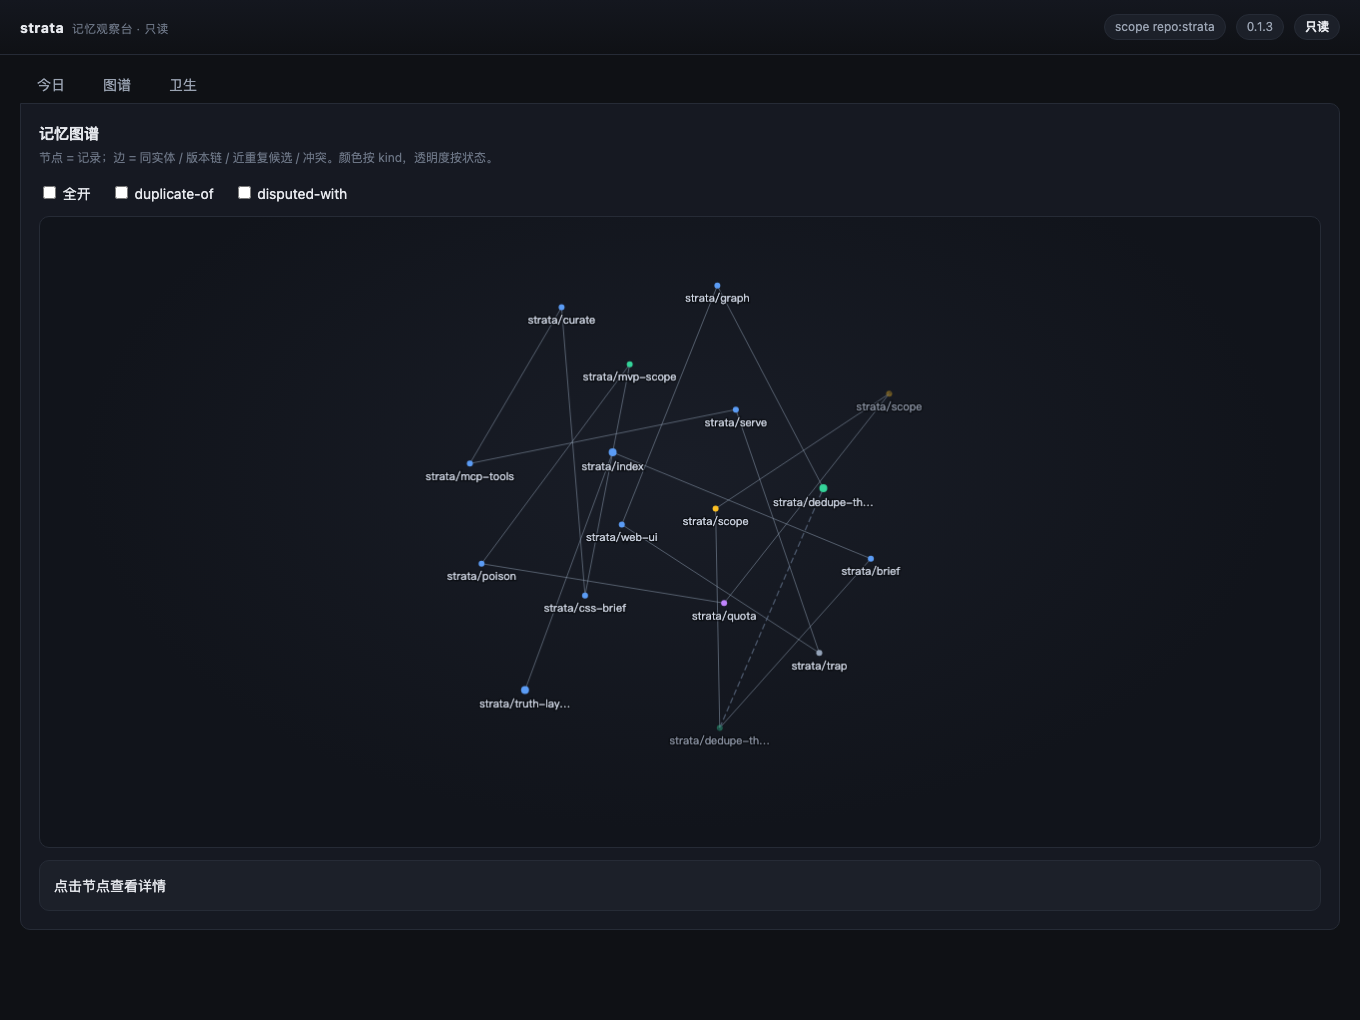
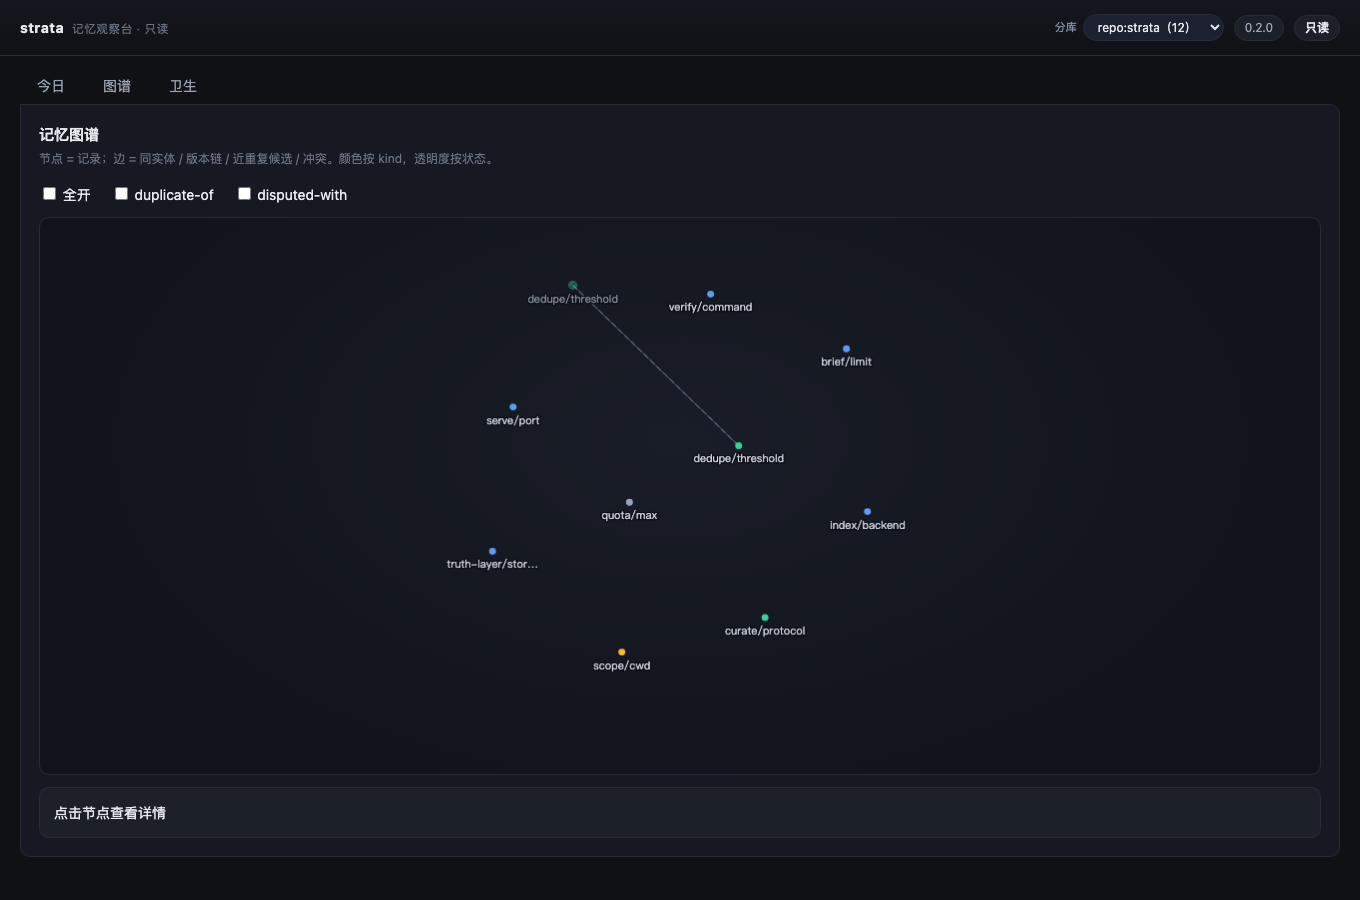
docs(readme): 把「看一眼（只读观察台）」挪到文末 + 刷新三张截图 (#31)
- 观察台是「跑起来之后才关心」的内容，占首屏会把为什么/解决什么/文档/快速开始都推下去
- 三张截图重截（原来是 0.1.3 时代，角标对不上；现在 0.2.0，且卫生页候选卡片能正确显示成员）
- 顺带修掉卫生页候选卡片「簇 #N · 0 条」的字段错配：dedupeScan 给的是 items/size，
  UI 读的是 members → 永远 0；并补一条断言 payload 形状的单测

Refs #29 #30

diff --git a/versions/v0.2/tests/unit/web-handlers.test.js b/versions/v0.2/tests/unit/web-handlers.test.js
@@ -226,3 +226,25 @@ test('readMetrics：只有旧名时能读到；新旧都没有返回 null', asyn
   // 都没有 → null（换一个不存在的日期即可，目录里没有对应文件）
   assert.equal(await readMetrics(memoHome, SCOPE, '2026-01-01'), null);
 });
+
+test('hygiene 候选簇：payload 只有 items 时仍能给出条数与成员（issue #30）', async (t) => {
+  const memoHome = fs.mkdtempSync(path.join(os.tmpdir(), 'memo-wh-cand-'));
+  t.after(() => fs.rmSync(memoHome, { recursive: true, force: true }));
+  const service = await createMemoryService({ memoHome, scope: SCOPE });
+  t.after(() => service.close());
+
+  // 两条中文改写：containment 抓不到但汉字二元组能召回 → 必然成簇
+  await writeRec(service, { subject: 'text', predicate: 'text', text: '去重阈值只用来找候选，最终判决交给正在跑的 Agent' });
+  await writeRec(service, { subject: 'text', predicate: 'text', text: '去重的阈值只负责召回候选，不该由它做判决，判决交给 Agent' });
+
+  const web = await createWebServer({ memoHome, scope: SCOPE, port: 0, includeUi: false, service });
+  t.after(() => new Promise((resolve) => web.server.close(resolve)));
+
+  const r = await (await fetch(`${web.url}api/hygiene`)).json();
+  assert.equal(r.ok, true);
+  assert.ok(Array.isArray(r.candidates) && r.candidates.length >= 1, '应有候选簇');
+  const cl = r.candidates[0];
+  assert.ok(Array.isArray(cl.items) && cl.items.length === 2, '簇里应带 items（UI 渲染依赖它）');
+  assert.equal(cl.size, 2, 'size 必须等于簇内条数');
+  assert.ok(cl.items.every((it) => typeof it.text === 'string' && it.text.length > 0), 'items 应带 text 供 UI 显示');
+});

diff --git a/versions/v0.2/ui/app.js b/versions/v0.2/ui/app.js
@@ -273,12 +273,16 @@ function renderCandidates(box, clusters) {
   }
   list.forEach((cl, i) => {
     const card = el('div', 'cluster');
-    const members = Array.isArray(cl.members) ? cl.members : [];
+    // dedupeScan 的簇用 items（契约 §3.3）；members 只是兼容旧形状。
+    // 标题条数优先用 size —— items 可能被服务端按 limit 裁过，count 会骗人。
+    const members = Array.isArray(cl.members) ? cl.members : (Array.isArray(cl.items) ? cl.items : []);
     const pairs = Array.isArray(cl.pairs) ? cl.pairs : [];
-    card.append(el('h4', '', `簇 #${i + 1} · ${members.length} 条`));
+    const total = Number.isFinite(Number(cl.size)) ? Number(cl.size) : members.length;
+    card.append(el('h4', '', `簇 #${i + 1} · ${total} 条`));
     if (cl.slot) card.append(el('div', 'm', `slot: ${cl.slot}`));
     for (const m of members) {
-      const label = typeof m === 'string' ? m : (m.label ?? m.id ?? '');
+      const raw = typeof m === 'string' ? m : (m.label ?? m.text ?? m.id ?? '');
+      const label = raw.length > 72 ? `${raw.slice(0, 72)}…` : raw;
       card.append(el('div', 'member', `· ${label}`));
     }
     for (const p of pairs) {
